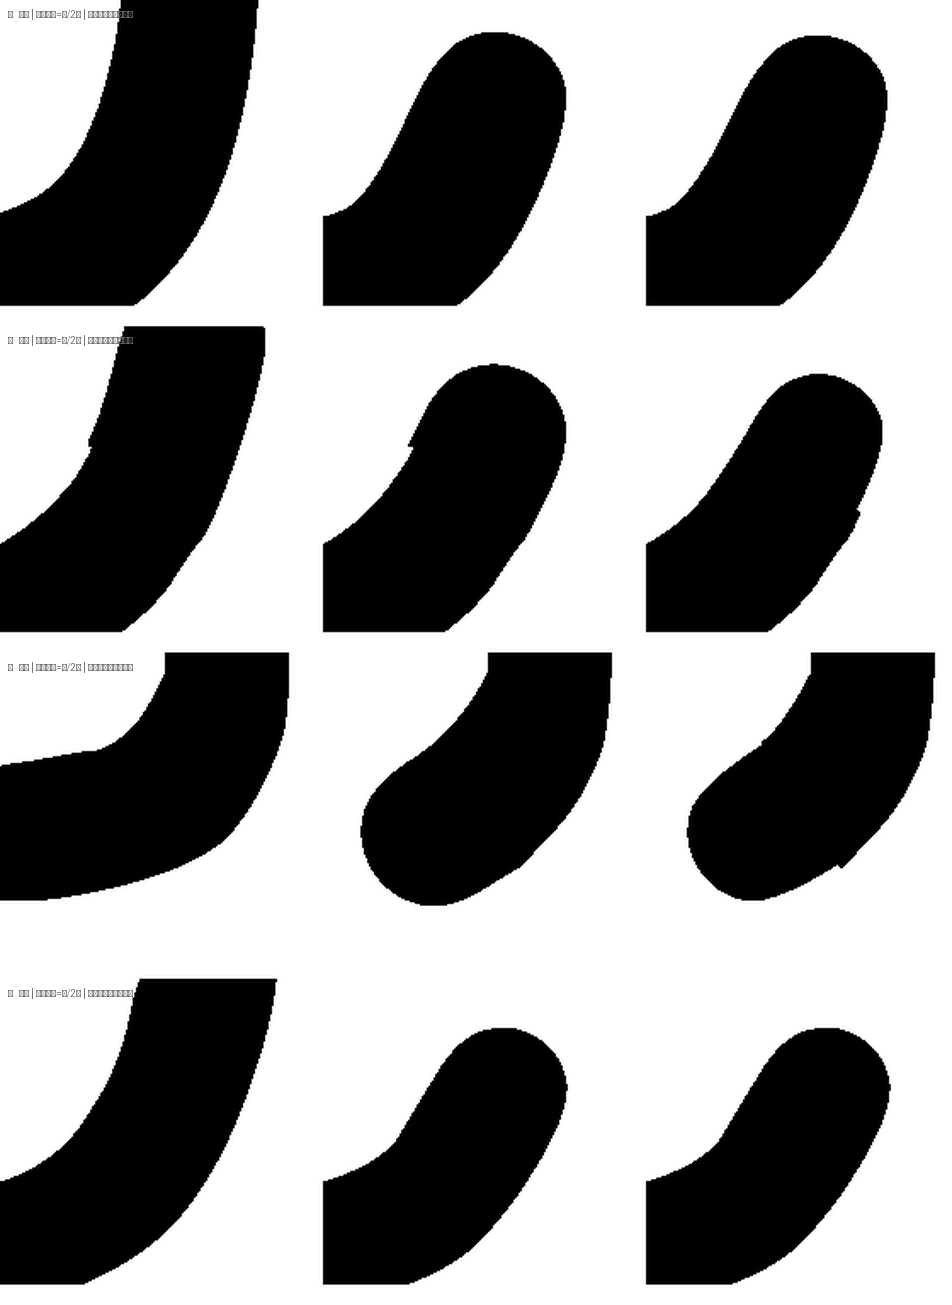
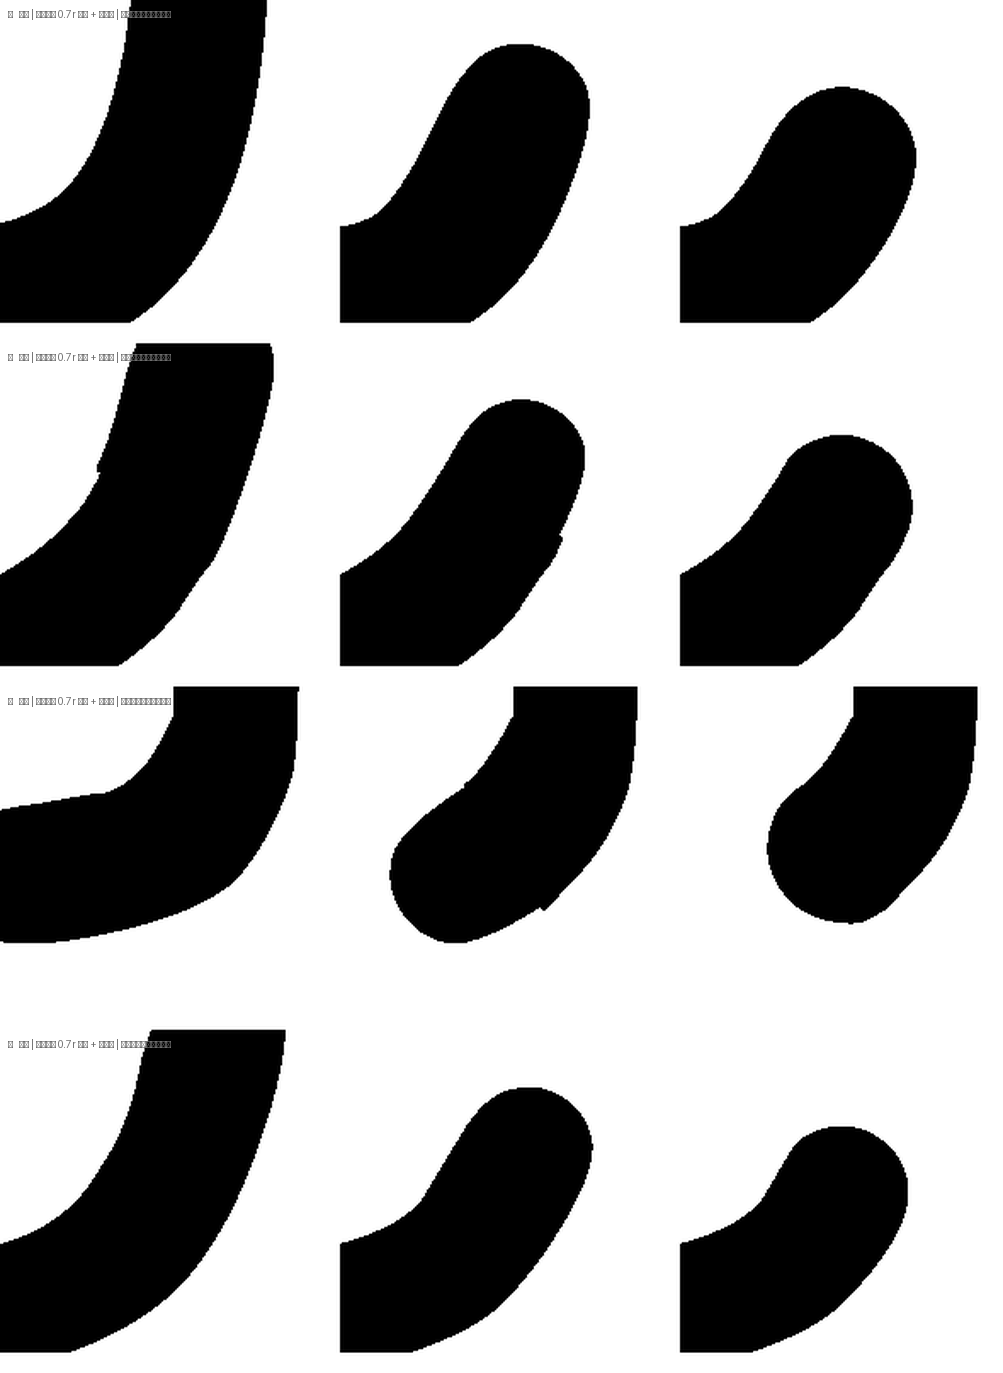
fix: 半圆直接扣在切口上，端头不再外伸

diff --git a/tools/hook_taper.py b/tools/hook_taper.py
@@ -44,7 +44,6 @@ SAMPLE = 32
 TAPER = 2.1        # 收尖长度 / 半笔宽
 SIDE_K = 0.46      # 侧边起手控制点系数（× 弦长）
 AXIS_M = 0.34      # 收尖前轴向下压系数（× 弦长）
-STRAIGHT = 0.70     # 直段长度 / 半笔宽
 TIP_E = 0.20       # 尖端横向错开（× 半笔宽），保证是个楔形而不是对折
 FLAT_MAX = 20.0    # 切口处允许的"水平"偏差（度）
 FLAT_BACK = 2.6    # 沿骨架往回最多找多远（× 半笔宽）
@@ -389,36 +388,30 @@ def _despike(pts, thresh=2.0, passes=2):
     return pts
 
 
-def build_straight_cap(S, E, n, r, L, quads=4):
-    """直的等宽笔身 + 标准半圆：就是"一条直"的收笔。
+def build_round_cap(S, E, n, quads=4):
+    """切口上直接扣一个标准半圆：直径就是切口，半径 = 弦的一半。
 
-    S、E 是切口两端（弦可能比 2r 宽，因为笔身在那一段是弯的）。
-    先从切口沿横向上收到笔宽 2r（短线，长度 = 弦半 - r），
-    再沿**笔势 n** 走 L 的直侧边，末端接半径 r 的半圆。
-    侧边是直线、圆是真圆，宽度严格等于笔宽，不会鼓。
+    不做任何外伸、不收窄、不加直段——钩切掉多少，端头就停在哪儿。
+    半圆的两端正好落在切口两端，端头最宽处就是切口本身，所以它只可能等于
+    笔宽、不可能比笔身胖；切口垂直于笔势时，半圆在端点处的切线也正好顺着
+    笔身两侧走，接缝一阶连续。
     """
+    r = _dist(S, E) / 2
+    if r < 1e-6:
+        return []
     C = ((S[0] + E[0]) / 2, (S[1] + E[1]) / 2)
-    t = _norm((E[0] - S[0], E[1] - S[1]))
-    A1 = (C[0] - t[0] * r, C[1] - t[1] * r)
-    A2 = (C[0] + t[0] * r, C[1] + t[1] * r)
-    B1 = (A1[0] + n[0] * L, A1[1] + n[1] * L)
-    B2 = (A2[0] + n[0] * L, A2[1] + n[1] * L)
-    O = (C[0] + n[0] * L, C[1] + n[1] * L)
-    out = [(A1[0], A1[1], True), (B1[0], B1[1], True)]
-    # 半圆 B1 → B2，经 O + n*r（端头最远点）。u = B1-O = -t，w = n，二者正交。
-    u = (-t[0], -t[1])
+    u = _norm((S[0] - C[0], S[1] - C[1]))
     coef = math.cos(math.pi / (2 * quads))
+    out = []
     for q in range(quads):
         t0 = math.pi * q / quads
         t1 = math.pi * (q + 1) / quads
         tm = (t0 + t1) / 2
-        out.append((O[0] + r / coef * (u[0] * math.cos(tm) + n[0] * math.sin(tm)),
-                    O[1] + r / coef * (u[1] * math.cos(tm) + n[1] * math.sin(tm)), False))
+        out.append((C[0] + r / coef * (u[0] * math.cos(tm) + n[0] * math.sin(tm)),
+                    C[1] + r / coef * (u[1] * math.cos(tm) + n[1] * math.sin(tm)), False))
         if q < quads - 1:
-            out.append((O[0] + r * (u[0] * math.cos(t1) + n[0] * math.sin(t1)),
-                        O[1] + r * (u[1] * math.cos(t1) + n[1] * math.sin(t1)), True))
-    out.append((B2[0], B2[1], True))
-    out.append((A2[0], A2[1], True))
+            out.append((C[0] + r * (u[0] * math.cos(t1) + n[0] * math.sin(t1)),
+                        C[1] + r * (u[1] * math.cos(t1) + n[1] * math.sin(t1)), True))
     out.append((E[0], E[1], True))
     return out
 
@@ -797,8 +790,7 @@ def process(font, gname, px=2000, margin_frac=0.08, verbose=True):
         # 端头半径**绝不能超过半笔宽**。取弦的一半时，弦比笔宽大多少，端头就比
         # 笔身宽多少——放大就是一个蘑菇头（主人说的脓包）。弦更窄时宁可按弦收，
         # 也不反过来撑宽。
-        r_cap = min(r, _dist(pS, pE) / 2)
-        cap = build_straight_cap(pS, pE, nrm, r_cap, STRAIGHT * r)
+        cap = build_round_cap(pS, pE, nrm)
         diag.append(("capchord", round(_dist(pS, pE), 1), "2r", round(2 * r, 1)))
 
         # 保留段：从 E 顺着段序走回 S。按段重建，不再往扁平点表里插点

diff --git a/docs/round-preview/2026-10-24-modern-maruko-pipeline/README.md b/docs/round-preview/2026-10-24-modern-maruko-pipeline/README.md
@@ -502,7 +502,7 @@ Maruko 6,582 + Plangothic 10 = 6,592，一个不少。
 | `了` 的真钩被误杀 | 该判据从 `i1` 起步采样，配对交换后起点其实是 `i2`，量到的是绕远路的半圈（10.3r） | 从**被删弧的起点**采样 |
 | `必` 端头一根发丝 | 最优弦只有 2.1 长（交点退化重合），半圆的 u、w 基共线，弧塌成来回线段 | 补回弦长窗口 0.80–1.18 × 2rl |
 | 接缝针尖 | 重建后残留瘦三角顶点 | `_despike`：离前后两点连线不到 2 单位的 on-curve 点删掉（最多两轮） |
-| **端头比笔身宽（脓包）** | 端头半径取的是**弦的一半**，弦比笔宽大多少端头就宽多少（`九` +4%、`乙` +7%、`也` +6%） | `r_cap = min(半笔宽, 弦/2)`，弦窗收到 0.92–1.10 × 2rl |
+| **端头鼓出来（脓包）** | 切口之后又外伸了 0.7r 的直段，端头比切口远出 1.7 个半笔宽 | 端头**不外伸**：半圆直接扣在切口上，直径 = 切口 |
 
 切面候选也加了一路：除了沿笔身取切面，还在**钩骨架靠根部**放切面、法向取钩的走向——
 钩是斜着长出来的，只按笔身方向切，弦就是斜的（`必` 的弦一度歪到 2.1 长）。
@@ -511,14 +511,14 @@ Maruko 6,582 + Plangothic 10 = 6,592，一个不少。
 
 | 字 | 处理 | IoU |
 |---|---|---|
-| 九 | ok 34.8 / 89 | 0.9689 |
-| 乙 | 第一处钩 skip，第二处 ok 31.9 / 73 | 0.9691 |
+| 九 | ok 34.8 / 89 | 0.9597 |
+| 乙 | 第一处钩 skip，第二处 ok 31.9 / 73 | 0.9610 |
 | 了 | 无合格切口 → 原样 | 1.0000 |
 | 子 | 无合格切口 → 原样 | 1.0000 |
-| 也 | ok 34.7 / 127 | 0.9745 |
-| 包 | ok 33.6 / 39，第二处 skip | 0.9814 |
-| 必 | ok 33.1 / 110 | 0.9761 |
-| 電 | ok 31.5 / 51 | 0.9896 |
+| 也 | ok 34.7 / 127 | 0.9694 |
+| 包 | ok 33.6 / 39，第二处 skip | 0.9748 |
+| 必 | ok 33.1 / 110 | 0.9684 |
+| 電 | ok 31.5 / 51 | 0.9853 |
 
 ![8 字对照](hook8-grid.png)
 
@@ -528,20 +528,13 @@ Maruko 6,582 + Plangothic 10 = 6,592，一个不少。
 
 六个真钩的切口放大：端头都是直侧边接标准半圆。
 
-端头半宽一律**不大于**笔宽，实测（栅格距离变换，单位 = font unit）：
+端头不再外伸：钩切掉多少，端头就停在哪儿。半圆的直径就是切口，最宽处等于切口宽度，
+因此只可能等于笔宽、不可能比笔身胖；切口垂直于笔势时，半圆在两端点的切线正好顺着笔身两侧，
+接缝一阶连续。
 
-| 字 | 半笔宽 r | 端头圆心实测半宽 | 旧做法（弦/2） |
-|---|---|---|---|
-| 九 | 34.8 | 33.8 | 36.3 |
-| 乙 | 31.9 | 30.6 | 34.1 |
-| 也 | 34.7 | 33.0 | 36.8 |
-| 包 | 33.6 | 32.2 | 33.8 |
-| 必 | 32.3 | 31.3 | 32.3 |
-| 電 | 31.5 | 30.4 | 31.6 |
+![端头对照](hook8-cap-radius.png)
 
-![端头半径前后对比](hook8-cap-radius.png)
-
-每行三个：原版 / 旧（半径取弦的一半）/ 新（半径 ≤ 半笔宽）。旧版端头明显比笔身胖一圈。
+每行三个：原版 / 旧（切口后再外伸 0.7r 直段接半圆）/ 新（半圆直接扣在切口上）。
 
 **如实记，两处还没说通**：
 

diff --git a/CHANGELOG.md b/CHANGELOG.md
@@ -7,7 +7,7 @@
 - 加宽度硬门槛（交点间距 0.82–1.22 倍笔宽），挡掉配对代价的次优解（`乙` 第一钩 31 对 64、`包` 第二钩 381 对 63），`包` 的多余尖刺消失。
 - 收笔形状按主人要求定死为**直的等宽笔身 + 标准半圆**（「一条直」，`STRAIGHT = 0.70`）；半椭圆版全删。
 - 判据这一轮改了五处：① 没有合格切口就**原样跳过**，退路 `hook_run` 删除（它在 `子` 上量出 3.4 倍笔宽的弦，只会糊球）；② 被删的那段弧必须**贴着钩骨架**（max ≤ 1.5r、mean ≤ 1.2r），否则会把整条笔画当钩删（`子`）；③ 该判据的采样起点改成被删弧的起点，之前从 `i1` 起步、配对交换后绕到对侧半圈（`了` 读数 10.3r，真钩被误杀）；④ 补回弦长窗口 0.80–1.18 × 2rl（`必` 的最优弦只有 2.1 长，半圆塌成一根发丝）；⑤ 切面候选加一路「钩骨架靠根部 + 法向取钩走向」（`必` 的弦因此从 2.1 回到 64.5）。
-- **端头脓包的根因**：端头半径取的是「弦的一半」，弦比笔宽大多少端头就胖多少（`九` +4%、`乙` +7%、`也` +6%）。改成 `r_cap = min(半笔宽, 弦/2)`，弦窗同步收到 0.92–1.10 × 2rl；实测端头半宽 30.4–33.8，全部不大于笔宽（旧值 31.6–36.8）。新增核图 `hook8-cap-radius.png`。
+- **端头脓包的根因（两处）**：① 端头半径取「弦的一半」，弦比笔宽大多少端头就胖多少；② 切口之后又外伸 0.7r 直段，端头比切口远出 1.7 个半笔宽。现在 `build_round_cap` 把半圆**直接扣在切口上**（直径 = 切口），不外伸、不收窄、不加直段；弦窗收到 0.92–1.10 × 2rl。`STRAIGHT` 常量与 `build_straight_cap` 一并删除。新增核图 `hook8-cap-radius.png`。
 - 新增 `_despike`：重建后离前后两点连线不到 2 单位的 on-curve 点删除，掐掉接缝针尖。删掉 `hook_run`、`build_cap`、`build_ellipse_cap`、`build_flare_cap`、`build_blunt`、`bend_tail` 等死代码。
 - 结果：`九`/`乙`/`也`/`包`/`必`/`電` 的钩切成直侧边接标准半圆（IoU 0.9695–0.9896）；`子`、`了` 判出的位置其实在转角，整字不动（IoU 1.0）。`也` 的切口位置仍不在笔端，留待主人看图定。
 - 更新 `hook8-grid.png`、`hook8-terminal.png`。
